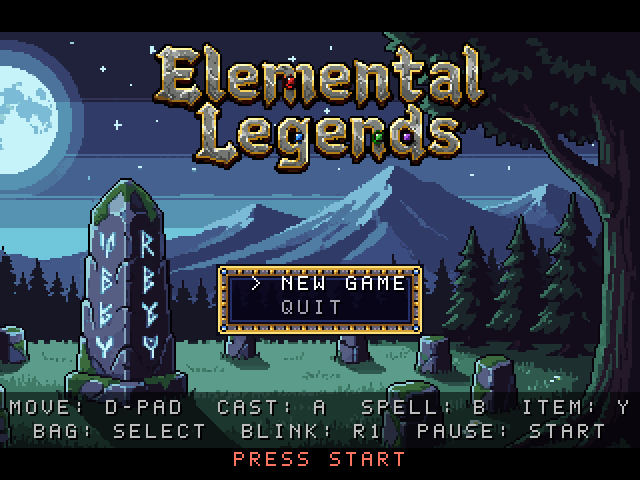
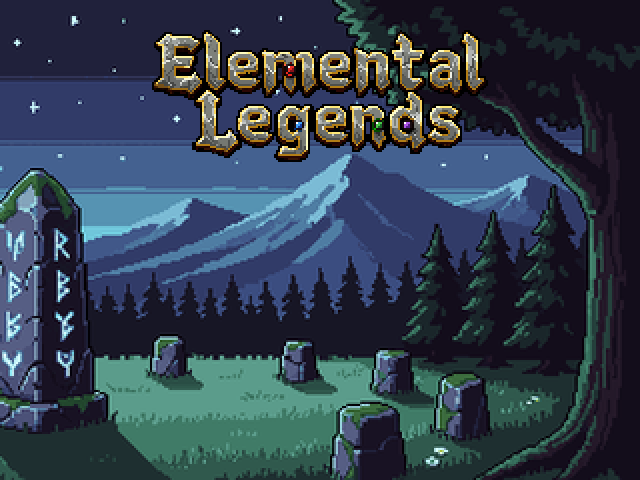
PortMaster art and metadata: new cover and screenshot, port.json, gameinfo.xml
- cover.png: the painted title (logo, rune stone, moonlit forest) without the menu.
- screenshot.png: a current overworld scene with the quarter-heart life meter
  (made by the self-test as 00_port_screenshot).
- port.json and gameinfo.xml, shipped by build-handheld.sh and the release workflow.

diff --git a/src/snapshot.rs b/src/snapshot.rs
@@ -534,6 +534,11 @@ pub fn run(dir: Option<&str>) -> i32 {
     t.check(t.g.debug_enemy(id).map_or(false, |e| e.freeze > 0), "second ice hit on a chilled enemy freezes it");
     t.frames(16);
     t.shot("14_frozen");
+    // The PortMaster screenshot (port/screenshot.png): this scene with a normal life meter.
+    let (hp, max) = (t.g.debug_hp(), t.g.debug_max().0);
+    t.g.debug_set_hp(15, 20);
+    t.shot("00_port_screenshot");
+    t.g.debug_set_hp(hp, max);
     let mut shards = 0;
     for _ in 0..200 {
         t.frames(1);
@@ -874,7 +879,9 @@ fn boss_fight(t: &mut T, n: usize) {
             strafe_kept = false;
         }
         match f {
-            150 => t.shot(&format!("34_boss_{n}_a")),
+            150 => {
+                t.shot(&format!("34_boss_{n}_a"));
+            }
             400 => {
                 t.shot(&format!("35_boss_{n}_b"));
                 t.g.debug_boss_hp(0.45);
